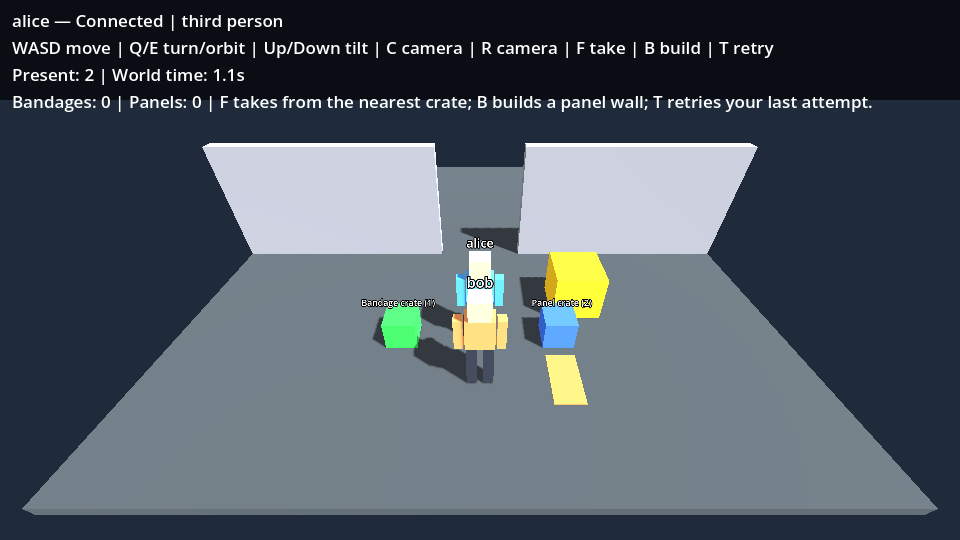
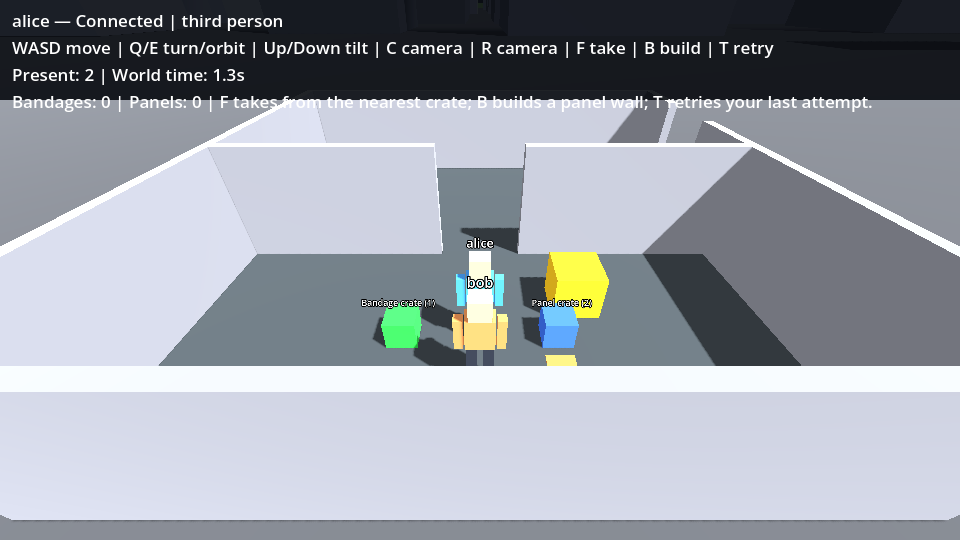
F3b: city in the game (save/protocol v4), building collision, chunk streaming
Starter room becomes an enclosed building in the plaza; v3 saves migrate with
backup. Server collides with generated buildings; client streams 9x9 chunks.
63 domain checks and all headless suites pass; Xvfb test walks out into the city.

diff --git a/src/QuestSim.Domain/SharedWorld.cs b/src/QuestSim.Domain/SharedWorld.cs
@@ -9,7 +9,7 @@ public sealed record ActorState(string Id, string Name, double X, double Z, doub
 public sealed record SupplyState(string Id, string ItemId, double X, double Z, int Count);
 public sealed record PickupReceipt(string RequestId, string ActorId, string ContainerId, string ItemId, bool Success, string Reason, int Quantity);
 public sealed record BuildReceipt(string RequestId, string ActorId, string SiteId, bool Success, string Reason, int Cost);
-public sealed record WorldSnapshot(int Version, long Sequence, long Tick, double HalfExtent, BlockRecord[] Blocks, ActorState[] Actors, SupplyState[] Supplies);
+public sealed record WorldSnapshot(int Version, long Sequence, long Tick, double HalfExtent, BlockRecord[] Blocks, ActorState[] Actors, SupplyState[] Supplies, ulong WorldSeed);
 
 public sealed class CharacterRecord
 {
@@ -25,7 +25,8 @@ public sealed class CharacterRecord
 
 public sealed class WorldSave
 {
-    public const string Content = "questsim:q02b-room-v1", Panel = "questsim:wall-panel";
+    public const string Content = "questsim:city-v1", Panel = "questsim:wall-panel";
+    public const ulong DefaultSeed = 20261026;
     // Fixed content: each crate's initial stock; the build cell's single panel wall.
     public static readonly SupplyState[] InitialSupplies =
     {
@@ -33,25 +34,34 @@ public sealed class WorldSave
         new("questsim:panel-crate", Panel, -3, 1.5, 2)
     };
     public static readonly BlockRecord BuildSite = new("questsim:build-cell-1", -4, 1.5, 1, .25, 2);
-    [JsonRequired] public int Version { get; set; } = 3;
+    [JsonRequired] public int Version { get; set; } = 4;
     [JsonRequired] public string ContentId { get; set; } = Content;
     [JsonRequired] public long Tick { get; set; }
-    [JsonRequired] public double HalfExtent { get; set; } = 6;
+    [JsonRequired] public double HalfExtent { get; set; } = CityGen.Half;
+    [JsonRequired] public ulong WorldSeed { get; set; } = DefaultSeed;
+    [JsonRequired] public int Generator { get; set; } = CityGen.Version;
     [JsonRequired] public List<SupplyState> Supplies { get; set; } = InitialSupplies.ToList();
     [JsonRequired] public List<PickupReceipt> Receipts { get; set; } = new();
     [JsonRequired] public List<BuildReceipt> BuildReceipts { get; set; } = new();
     [JsonRequired] public List<CharacterRecord> Characters { get; set; } = new();
-    [JsonRequired] public List<BlockRecord> Blocks { get; set; } = new()
+    [JsonRequired] public List<BlockRecord> Blocks { get; set; } = new List<BlockRecord>
     {
         new("questsim:wall-north", 0, -3.5, .25, 5, 2.8),
         new("questsim:wall-south", 0, 3.5, .25, 5, 2.8),
         new("questsim:module", -2, 2, 1, 1, 1)
+    }.Concat(Perimeter).ToList();
+    // Since v4 the starter room is an enclosed building in the city plaza, with a door on the south side (x 2..4).
+    public static readonly BlockRecord[] Perimeter =
+    {
+        new("questsim:wall-east", 6, 0, .25, 12, 2.8), new("questsim:wall-west", -6, 0, .25, 12, 2.8),
+        new("questsim:wall-north-outer", 0, -6, 12, .25, 2.8),
+        new("questsim:wall-south-west", -2, 6, 8, .25, 2.8), new("questsim:wall-south-east", 5, 6, 2, .25, 2.8)
     };
 }
 
 public sealed class WorldAuthority
 {
-    public const int ProtocolVersion = 3;
+    public const int ProtocolVersion = 4;
     public const int TickRate = 20;
     public const double Speed = 2.5;
     public const double Radius = .25;
@@ -61,7 +71,8 @@ public sealed class WorldAuthority
     private readonly Dictionary<int, (long Sequence, double X, double Z, double Heading, long Expires)> intents = new();
     private long snapshotSequence;
 
-    public WorldAuthority(WorldSave state) { WorldStorage.Validate(state); State = state; }
+    public CityGen City { get; }
+    public WorldAuthority(WorldSave state) { WorldStorage.Validate(state); State = state; City = new CityGen(state.WorldSeed); }
 
     public CharacterRecord Join(int peer, string profileId, string name)
     {
@@ -179,21 +190,34 @@ public sealed class WorldAuthority
     public bool IsSafe(double x, double z, string exceptId = "") =>
         double.IsFinite(x) && double.IsFinite(z) && Math.Abs(x) <= State.HalfExtent - Radius && Math.Abs(z) <= State.HalfExtent - Radius &&
         State.Supplies.All(s => Math.Abs(x - s.X) >= .3 + Radius || Math.Abs(z - s.Z) >= .3 + Radius) &&
-        State.Blocks.All(b => Clear(x, z, b)) &&
+        State.Blocks.All(b => Clear(x, z, b)) && ClearOfBuildings(x, z) &&
         active.Values.All(c => c.Id == exceptId || (x - c.X) * (x - c.X) + (z - c.Z) * (z - c.Z) >= .36);
+
+    bool ClearOfBuildings(double x, double z)
+    {
+        int cx = (int)Math.Floor(x / CityGen.ChunkSize), cz = (int)Math.Floor(z / CityGen.ChunkSize);
+        for (int dx = -1; dx <= 1; dx++)
+            for (int dz = -1; dz <= 1; dz++)
+                foreach (var b in City.Chunk(cx + dx, cz + dz))
+                    if (Math.Abs(x - b.X) < b.Width / 2.0 + Radius && Math.Abs(z - b.Z) < b.Depth / 2.0 + Radius) return false;
+        return true;
+    }
 
     private (double X, double Z) FindSafe(double x, double z, string id)
     {
         if (IsSafe(x, z, id)) return (x, z);
-        var candidates = from gx in Enumerable.Range(-5, 11) from gz in Enumerable.Range(-5, 11)
-                         orderby (gx - x) * (gx - x) + (gz - z) * (gz - z), gx, gz
-                         select (X: (double)gx, Z: (double)gz);
+        // Nearest free whole-metre spot around the character, then inside the starter room.
+        var candidates = (from gx in Enumerable.Range(-5, 11) from gz in Enumerable.Range(-5, 11)
+                          select (X: Math.Round(x) + gx, Z: Math.Round(z) + gz))
+                         .OrderBy(p => (p.X - x) * (p.X - x) + (p.Z - z) * (p.Z - z)).ThenBy(p => p.X).ThenBy(p => p.Z)
+                         .Concat(from gx in Enumerable.Range(-5, 11) from gz in Enumerable.Range(-5, 11)
+                                 orderby gx * gx + gz * gz, gx, gz select (X: (double)gx, Z: (double)gz));
         foreach (var p in candidates) if (IsSafe(p.X, p.Z, id)) return p;
         throw new InvalidOperationException("No safe re-entry position in this room");
     }
 
     public WorldSnapshot Snapshot() => new(ProtocolVersion, ++snapshotSequence, State.Tick, State.HalfExtent,
-        State.Blocks.ToArray(), active.Values.OrderBy(c => c.Id).Select(c => new ActorState(c.Id, c.Name, c.X, c.Z, c.Heading)).ToArray(), State.Supplies.ToArray());
+        State.Blocks.ToArray(), active.Values.OrderBy(c => c.Id).Select(c => new ActorState(c.Id, c.Name, c.X, c.Z, c.Heading)).ToArray(), State.Supplies.ToArray(), State.WorldSeed);
 }
 
 public static class WorldStorage
@@ -221,12 +245,24 @@ public static class WorldStorage
             root["Supplies"] = new JsonArray(supply, JsonSerializer.SerializeToNode(WorldSave.InitialSupplies[1]));
             root["BuildReceipts"] = new JsonArray();
             root["Version"] = 3;
+            root["ContentId"] = "questsim:q02b-room-v1";
+        }
+        if (root["Version"]?.GetValue<int>() == 3)
+        {
+            if (root["ContentId"]?.GetValue<string>() != "questsim:q02b-room-v1") throw new InvalidDataException("Unsupported v3 content");
+            var blocks = root["Blocks"] as JsonArray ?? throw new InvalidDataException("Missing v3 blocks");
+            var ids = blocks.Select(b => b?["Id"]?.GetValue<string>()).ToHashSet();
+            foreach (var wall in WorldSave.Perimeter.Where(w => !ids.Contains(w.Id))) blocks.Add(JsonSerializer.SerializeToNode(wall));
+            root["HalfExtent"] = CityGen.Half;
+            root["WorldSeed"] = WorldSave.DefaultSeed;
+            root["Generator"] = CityGen.Version;
+            root["Version"] = 4;
             root["ContentId"] = WorldSave.Content;
         }
         var world = JsonSerializer.Deserialize<WorldSave>(root.ToJsonString(), JsonOptions) ?? throw new InvalidDataException("Empty world save");
         Validate(world);
         // Validate first; backup is immutable and created before any v3 save can replace the original.
-        if (from is 1 or 2) File.Copy(path, path + $".v{from}-" + Guid.NewGuid().ToString("N") + ".bak", overwrite: false);
+        if (from is 1 or 2 or 3) File.Copy(path, path + $".v{from}-" + Guid.NewGuid().ToString("N") + ".bak", overwrite: false);
         return world;
     }
     public static void Save(string path, WorldSave world)
@@ -247,8 +283,8 @@ public static class WorldStorage
     }
     public static void Validate(WorldSave w)
     {
-        if (w.Version != 3 || w.ContentId != WorldSave.Content) throw new InvalidDataException("Unsupported world save version/content");
-        if (w.Tick < 0 || !double.IsFinite(w.HalfExtent) || w.HalfExtent != 6 || w.Characters is null || w.Blocks is null)
+        if (w.Version != 4 || w.ContentId != WorldSave.Content || w.Generator != CityGen.Version) throw new InvalidDataException("Unsupported world save version/content/generator");
+        if (w.Tick < 0 || !double.IsFinite(w.HalfExtent) || w.HalfExtent != CityGen.Half || w.Characters is null || w.Blocks is null)
             throw new InvalidDataException("Invalid world data");
         if (w.Characters.Any(c => c is null || string.IsNullOrEmpty(c.Id) || !c.Id.StartsWith("actor:") || !Guid.TryParseExact(c.Id[6..], "N", out _) ||
             !Guid.TryParseExact(c.ProfileId, "N", out _) || string.IsNullOrWhiteSpace(c.Name) || c.Name.Length > 24 ||

diff --git a/src/QuestSim.Game/RoomView.cs b/src/QuestSim.Game/RoomView.cs
@@ -13,6 +13,10 @@ public partial class RoomView : Node3D
     private bool roomBuilt;
     private readonly Dictionary<string, (MeshInstance3D Box, Label3D Label)> supplies = new();
     private readonly HashSet<string> blocks = new();
+    private CityGen? city;
+    private readonly Dictionary<(int, int), Node3D> chunks = new();
+    private (int, int)? centreChunk;
+    private const int ChunkRadius = 4;
     public event Action? PickupRequested, BuildRequested, RetryRequested;
 
     public override void _Ready()
@@ -36,8 +40,17 @@ public partial class RoomView : Node3D
     }
     private void BuildRoom(WorldSnapshot state)
     {
-        float side = (float)state.HalfExtent * 2;
-        Box(this, new Vector3(0, -.1f, 0), new Vector3(side, .2f, side), new Color(.25f, .28f, .3f));
+        Box(this, new Vector3(0, -.1f, 0), new Vector3(12, .2f, 12), new Color(.25f, .28f, .3f));
+        city = new CityGen(state.WorldSeed);
+        var ground = new MeshInstance3D { Mesh = new PlaneMesh { Size = new Vector2(CityGen.Half * 2, CityGen.Half * 2) }, Position = new Vector3(0, -.05f, 0),
+            MaterialOverride = new StandardMaterial3D { AlbedoColor = new Color(.35f, .5f, .25f), Roughness = 1 } };
+        AddChild(ground);
+        foreach (var road in city.Roads)
+        {
+            var from = new Vector3(road.X1, 0, road.Z1); var to = new Vector3(road.X2, 0, road.Z2);
+            var strip = Box(this, (from + to) / 2 + new Vector3(0, -.03f, 0), new Vector3(CityGen.RoadHalfWidth * 2, .02f, from.DistanceTo(to)), new Color(.2f, .2f, .22f));
+            strip.Rotation = new Vector3(0, Mathf.Atan2(to.X - from.X, to.Z - from.Z), 0);
+        }
         var site = WorldSave.BuildSite; // Floor marker for the one build cell.
         Box(this, new Vector3((float)site.X, .01f, (float)site.Z), new Vector3((float)site.Width, .02f, (float)site.Depth + .3f), new Color(.85f, .55f, .3f));
         foreach (var supply in state.Supplies)
@@ -48,6 +61,46 @@ public partial class RoomView : Node3D
         }
         roomBuilt = true;
     }
+    // Keep the chunks around the local player built; generated identically to the server from the world seed.
+    private void StreamChunks(Vector3 position)
+    {
+        var centre = ((int)Mathf.Floor(position.X / CityGen.ChunkSize), (int)Mathf.Floor(position.Z / CityGen.ChunkSize));
+        if (city is null || centreChunk == centre) return;
+        centreChunk = centre;
+        var wanted = new HashSet<(int, int)>();
+        for (int dx = -ChunkRadius; dx <= ChunkRadius; dx++)
+            for (int dz = -ChunkRadius; dz <= ChunkRadius; dz++) wanted.Add((centre.Item1 + dx, centre.Item2 + dz));
+        foreach (var key in chunks.Keys.Except(wanted).ToArray()) { chunks[key].QueueFree(); chunks.Remove(key); }
+        foreach (var key in wanted.Except(chunks.Keys).ToArray()) chunks[key] = BuildChunk(key.Item1, key.Item2);
+    }
+
+    private Node3D BuildChunk(int cx, int cz)
+    {
+        var node = new Node3D { Name = $"Chunk_{cx}_{cz}" };
+        AddChild(node);
+        int x0 = cx * CityGen.ChunkSize, z0 = cz * CityGen.ChunkSize, half = CityGen.ChunkSize / 2;
+        var biome = city!.BiomeAt(x0 + half, z0 + half);
+        if (biome != Biome.Field)
+        {
+            var colour = biome switch { Biome.Urban => new Color(.3f, .31f, .33f), Biome.Town => new Color(.42f, .4f, .35f), _ => new Color(.17f, .33f, .17f) };
+            node.AddChild(new MeshInstance3D { Mesh = new PlaneMesh { Size = new Vector2(CityGen.ChunkSize, CityGen.ChunkSize) }, Position = new Vector3(x0 + half, -.04f, z0 + half),
+                MaterialOverride = new StandardMaterial3D { AlbedoColor = colour, Roughness = 1 } });
+        }
+        var buildings = city.Chunk(cx, cz);
+        if (buildings.Length == 0) return node;
+        var multi = new MultiMesh { TransformFormat = MultiMesh.TransformFormatEnum.Transform3D, UseColors = true, Mesh = new BoxMesh { Size = Vector3.One } };
+        multi.InstanceCount = buildings.Length;
+        for (int i = 0; i < buildings.Length; i++)
+        {
+            var b = buildings[i];
+            multi.SetInstanceTransform(i, new Transform3D(Basis.FromScale(new Vector3(b.Width, b.Height, b.Depth)), new Vector3(b.X, b.Height / 2f, b.Z)));
+            float shade = .45f + (CityGen.Mix((uint)(b.X * 73856093 ^ b.Z * 19349663)) % 100) / 400f;
+            multi.SetInstanceColor(i, b.Height > 18 ? new Color(shade * .8f, shade * .85f, shade) : new Color(shade, shade * .9f, shade * .75f));
+        }
+        node.AddChild(new MultiMeshInstance3D { Multimesh = multi, MaterialOverride = new StandardMaterial3D { VertexColorUseAsAlbedo = true, Roughness = .9f } });
+        return node;
+    }
+
     private Node3D CreateActor(ActorState state, bool local)
     {
         var actor = new Node3D { Position = new Vector3((float)state.X, 0, (float)state.Z) };
@@ -101,6 +154,7 @@ public partial class RoomView : Node3D
             actor.Rotation = new Vector3(0, (float)a.Heading, 0);
             actor.Visible = !local || !firstPerson;
             if (!local) continue;
+            StreamChunks(actor.Position);
             Vector3 eye = actor.Position + new Vector3(0, 1.65f, 0);
             if (firstPerson) { camera.Position = eye; camera.Rotation = new Vector3(.65f - elevation, Yaw, 0); }
             else

diff --git a/checks/QuestSim.Checks/CityChecks.cs b/checks/QuestSim.Checks/CityChecks.cs
@@ -48,5 +48,28 @@ public static class CityChecks
                 if (seen.Add(next)) queue.Enqueue(next);
         check(seen.Count == settlements.Count && settlements.Count(s => s.Spawn) == 1 && settlements.Count > 100,
             $"{settlements.Count} population settlements (city districts + towns) form one connected road network");
+
+        var world = new WorldAuthority(new WorldSave());
+        var tower = Enumerable.Range(0, 3).SelectMany(cx => world.City.Chunk(cx, 0)).First();
+        check(!world.IsSafe(tower.X, tower.Z) && world.IsSafe(60, 0) && !world.IsSafe(6, 0) && world.IsSafe(3, 6.5),
+            "server collision includes generated buildings and the enclosed starter room, with a south door");
+        string dir = Path.Combine(Path.GetTempPath(), "questsim-city-" + Guid.NewGuid().ToString("N"));
+        string path = Path.Combine(dir, "world.json");
+        try
+        {
+            WorldStorage.Save(path, world.State);
+            var v3 = System.Text.Json.Nodes.JsonNode.Parse(File.ReadAllText(path))!.AsObject();
+            v3["Version"] = 3; v3["ContentId"] = "questsim:q02b-room-v1"; v3["HalfExtent"] = 6;
+            v3.Remove("WorldSeed"); v3.Remove("Generator");
+            var blocks = v3["Blocks"]!.AsArray();
+            foreach (var wall in blocks.Where(b => WorldSave.Perimeter.Any(w => w.Id == b!["Id"]!.GetValue<string>())).ToArray()) blocks.Remove(wall);
+            string original = v3.ToJsonString(); File.WriteAllText(path, original);
+            var migrated = WorldStorage.Load(path);
+            string backup = Directory.GetFiles(dir, "world.json.v3-*.bak").Single();
+            check(File.ReadAllText(backup) == original && migrated.Version == 4 && migrated.WorldSeed == WorldSave.DefaultSeed &&
+                  WorldSave.Perimeter.All(w => migrated.Blocks.Count(b => b == w) == 1) && migrated.HalfExtent == CityGen.Half,
+                "Q02b v3 save migrates to the city once, with an exact backup and the room enclosed");
+        }
+        finally { if (Directory.Exists(dir)) Directory.Delete(dir, true); }
     }
 }

diff --git a/src/QuestSim.Game/Session.cs b/src/QuestSim.Game/Session.cs
@@ -23,6 +23,7 @@ public partial class Session : Node
     private long? testSequence;
     private Profile profile = null!;
     private string profilePath = "", capturePath = "";
+    private Key[] heldKeys = [];
     private PickupReceipt? lastPickup;
     private BuildReceipt? lastBuild;
     private string itemMessage = "F takes from the nearest crate; B builds a panel wall; T retries your last attempt.";
@@ -46,6 +47,7 @@ public partial class Session : Node
         public string SiteId { get; set; } = "";
         public bool RetryBuild { get; set; }
         public string[] Keys { get; set; } = [];
+        public string[] HoldKeys { get; set; } = [];
         public string Capture { get; set; } = "";
     }
 
@@ -419,6 +421,10 @@ public partial class Session : Node
             Input.ParseInputEvent(new InputEventKey { Keycode = key, PhysicalKeycode = key, Pressed = true });
             Input.ParseInputEvent(new InputEventKey { Keycode = key, PhysicalKeycode = key, Pressed = false });
         }
+        // Held keys stay down until the next command, for continuous inputs such as camera tilt.
+        foreach (var key in heldKeys) Input.ParseInputEvent(new InputEventKey { Keycode = key, PhysicalKeycode = key, Pressed = false });
+        heldKeys = command.HoldKeys.Select(name => Enum.Parse<Key>(name, ignoreCase: true)).ToArray();
+        foreach (var key in heldKeys) Input.ParseInputEvent(new InputEventKey { Keycode = key, PhysicalKeycode = key, Pressed = true });
         if (command.Capture.Length > 0) capturePath = Path.GetFullPath(command.Capture, Workspace);
         if (command.Quit) GetTree().Quit();
     }

diff --git a/scripts/verify_build_screen.py b/scripts/verify_build_screen.py
@@ -81,6 +81,19 @@ try:
     passed('real T key replays each player\'s last build without another wall or cost')
     press(winner, 'C'); time.sleep(.5)  # One-slot intent file: let C be read and rendered before capturing.
     capture(winner, 'build-first-person')
+    press(winner, 'C'); time.sleep(.5)
+    # Walk Alice east through the partition doorway, then south out of the room's door into the city plaza.
+    def position(label):
+        status = f.status(label)
+        return next(a for a in status['snapshot']['Actors'] if a['Id'] == status['ownId'])
+    f.command('alice', 1, 0)
+    wait(lambda: position('alice')['X'] > 2.8, 'alice reaches the south door column', 15)
+    f.command('alice', 0, 1)
+    wait(lambda: position('alice')['Z'] > 25, 'alice walks out into the plaza', 20)
+    f.command('alice', holdKeys=['Down']); time.sleep(.9)   # tilt the camera toward the horizon
+    f.command('alice'); time.sleep(.4)
+    capture('alice', 'city-outside')
+    passed('a player can leave the starter room through its door and see the generated city')
     for label in ['alice', 'bob']: f.close(label)
     wait(lambda: f.status('server')['active'] == 0, 'clients absent')
     f.close('server', server=True)

diff --git a/scripts/verify_items.py b/scripts/verify_items.py
@@ -170,7 +170,7 @@ def run_migration():
         f.launch('legacy','legacy'); client=f.ready('legacy',1)
         assert client['ownId']==actor_id and client['own']['Inventory']=={ITEM:4,'example:keepsake':2} and client['own']['Experience']==9
         migrated=read(f.save)
-        assert migrated['Version']==3 and migrated['Blocks']==original['Blocks'] and migrated['Tick']>=70
+        assert migrated['Version']==4 and migrated['Blocks'][:len(original['Blocks'])]==original['Blocks'] and len(migrated['Blocks'])==len(original['Blocks'])+5 and migrated['Tick']>=70
         request=uuid.uuid4().hex; f.command('legacy',pickupRequestId=request,containerId=CRATE)
         assert reply(f,'legacy',request)['Success'] and quantity(f,'legacy')==5
         f.close('legacy'); wait(lambda:f.status('server')['active']==0,'legacy client absent');f.close('server',server=True)

diff --git a/checks/QuestSim.Checks/BuildChecks.cs b/checks/QuestSim.Checks/BuildChecks.cs
@@ -69,7 +69,7 @@ public static class BuildChecks
             string original = v2.ToJsonString(); File.WriteAllText(path, original);
             var migrated = WorldStorage.Load(path);
             string backup = Directory.GetFiles(dir, "world.json.v2-*.bak").Single();
-            check(File.ReadAllText(path) == original && File.ReadAllText(backup) == original && migrated.Version == 3 &&
+            check(File.ReadAllText(path) == original && File.ReadAllText(backup) == original && migrated.Version == 4 &&
                 migrated.Supplies[0] == WorldSave.InitialSupplies[0] with { Count = 0 } && migrated.Supplies[1] == WorldSave.InitialSupplies[1] &&
                 migrated.BuildReceipts.Count == 0 && migrated.Receipts.Count == 2,
                 "v2 migration backs up original bytes, keeps bandage results and adds one stocked panel crate");

diff --git a/checks/QuestSim.Checks/PickupChecks.cs b/checks/QuestSim.Checks/PickupChecks.cs
@@ -53,7 +53,7 @@ public static class PickupChecks
             string original = v1.ToJsonString(); File.WriteAllText(path, original);
             var migrated = WorldStorage.Load(path);
             string backup = Directory.GetFiles(dir, "world.json.v1-*.bak").Single();
-            check(File.ReadAllText(path) == original && File.ReadAllText(backup) == original && migrated.Version == 3 &&
+            check(File.ReadAllText(path) == original && File.ReadAllText(backup) == original && migrated.Version == 4 &&
                 migrated.Characters.Single(c => c.Id == a.Id).Inventory[item] == 1 && migrated.Tick == world.State.Tick && migrated.Blocks.SequenceEqual(world.State.Blocks),
                 "Q01 migration validates and backs up original bytes, preserving character/world facts");
             WorldStorage.Save(path, migrated);

diff --git a/checks/QuestSim.Checks/AuthorityChecks.cs b/checks/QuestSim.Checks/AuthorityChecks.cs
@@ -60,7 +60,7 @@ public static class AuthorityChecks
             bool incomplete = false;
             try { WorldStorage.Load(path); } catch (System.Text.Json.JsonException) { incomplete = true; }
             check(incomplete, "missing save fields rejected instead of silently replacing world");
-            File.WriteAllText(path, valid.Replace("\"Version\": 3", "\"Version\": 999"));
+            File.WriteAllText(path, valid.Replace("\"Version\": 4", "\"Version\": 999"));
             bool rejected = false;
             try { WorldStorage.Load(path); } catch (InvalidDataException) { rejected = true; }
             check(rejected && File.ReadAllText(path).Contains("999"), "unsupported save rejected without overwriting original");

diff --git a/scripts/verify_build.py b/scripts/verify_build.py
@@ -171,7 +171,7 @@ def run_migration():
         f.command('legacy',retryPickup=True)
         assert reply(f,'legacy',request)==receipt
         migrated=read(f.save)
-        assert migrated['Version']==3 and migrated['Blocks']==original['Blocks'] and migrated['Receipts']==[receipt]
+        assert migrated['Version']==4 and migrated['Blocks'][:len(original['Blocks'])]==original['Blocks'] and len(migrated['Blocks'])==len(original['Blocks'])+5 and migrated['Receipts']==[receipt]
         print('PASS real Q02a save and profile migrate with exact backup; saved bandage replay unchanged',flush=True)
         take_panel(f,'legacy')
         build=uuid.uuid4().hex; f.command('legacy',buildRequestId=build)

diff --git a/questsim_planning_kit/NIGHTLY_2026-10-26.md b/questsim_planning_kit/NIGHTLY_2026-10-26.md
@@ -32,3 +32,9 @@ Each entry gives what the agent chose for now; all are easy to change.
 ## Progress log
 
 - Created `nightly`; plan written.
+- F3a `2fb3ad3`: CityGen (40×40 km, ~22k buildings, 8 towns, roads, 229 settlements); 7 checks.
+- F3b: save/protocol v4 (`questsim:city-v1`, WorldSeed + Generator, 40 km bounds); v3 saves
+  migrate with `.v3-` backup; starter room enclosed (south door x 2..4); server collides with
+  generated buildings; client streams 9×9 chunks (MultiMesh per chunk) + roads. 63 domain
+  checks; build 11, items 12, multiplayer 12, save faults 4, Xvfb screen 5 (walk out of the
+  room into the plaza, `city-outside.png`).
